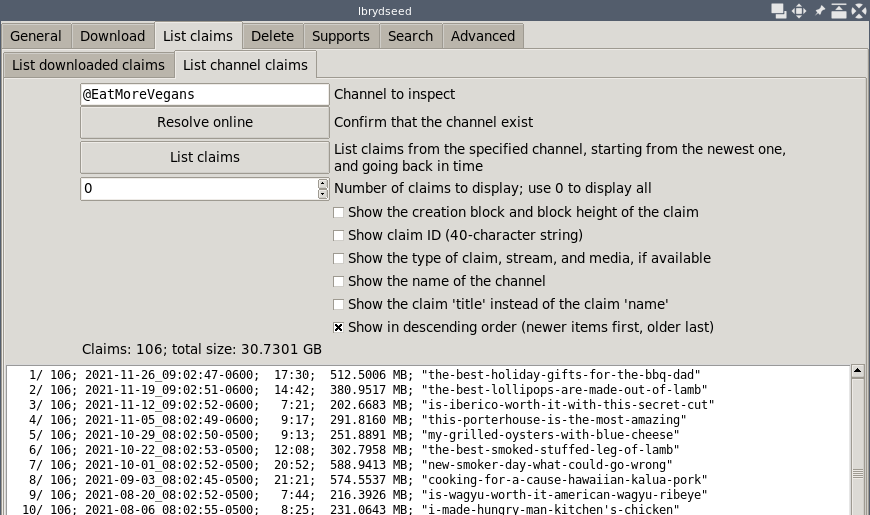
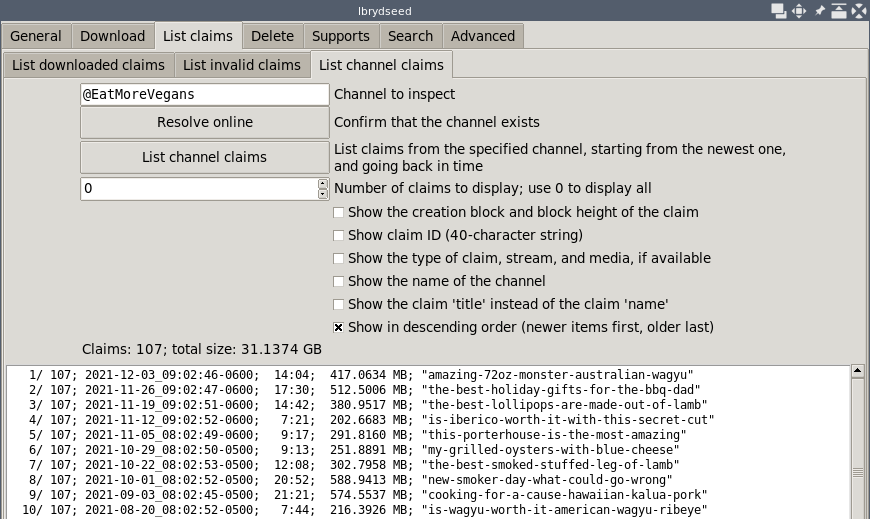
README.md: update images for listing claims
New images for `ListPage` (regular downloaded claims)
and `ListChPage` (only claims from a channel).

New image for the new page, `ListInvalidPage` (downloaded claims
that are now invalid).

diff --git a/lbseed/pages_base.py b/lbseed/pages_base.py
@@ -220,7 +220,7 @@ class ListPage:
     def setup_grid_top_list(self, parent, start=0):
         blocks.setup_button_gen(parent,
                                 width=self.b_width,
-                                b_text="List claims",
+                                b_text="List downloaded claims",
                                 b_command=self.list_claims,
                                 l_text="List all locally downloaded claims",
                                 start=start)
@@ -272,7 +272,7 @@ class ListInvalidPage:
     def setup_grid_top_list_inv(self, parent, start=0):
         blocks.setup_button_gen(parent,
                                 width=self.b_width,
-                                b_text="List claims",
+                                b_text="List invalid claims",
                                 b_command=self.list_inv_claims,
                                 l_text=("List all locally downloaded claims "
                                         "that have become 'invalid'.\n"
@@ -355,7 +355,7 @@ class ListChPage:
 
         blocks.setup_button_gen(parent,
                                 width=self.b_width,
-                                b_text="List claims",
+                                b_text="List channel claims",
                                 b_command=self.list_ch_claims,
                                 l_text=("List claims from the specified "
                                         "channel, "

diff --git a/README.md b/README.md
@@ -187,29 +187,34 @@ python dseed.py
 Enter the name of the channels, and a number of claims to download for each,
 then press `"Download claims"`.
 
-![lbryseed download_channel](./img/g_lbrydseed_download_channel.png)
+![lbryseed_download_channel](./img/g_lbrydseed_download_channel.png)
 
 Enter the name or claim ID of various claims,
 and then press `"Download claims"`.
 
-![lbryseed download_single](./img/g_lbrydseed_download_single.png)
+![lbryseed_download_single](./img/g_lbrydseed_download_single.png)
 
-Press `"List claims"` to display all claims downloaded to the system.
+Press `"List download claims"` to display all claims downloaded to the system.
 
-![lbryseed list_claims](./img/g_lbrydseed_list_claims.png)
+![lbryseed_list_claims](./img/g_lbrydseed_list_claims.png)
 
-Press `"List claims"` to display all claims from a single channel.
+Press `"List invalid claims"` to display all invalid claims,
+previously downloaded but no longer available online.
 
-![lbryseed list_claims](./img/g_lbrydseed_list_ch_claims.png)
+![lbryseed_list_invalid](./img/g_lbrydseed_list_invalid.png)
+
+Press `"List channel claims"` to display all claims from a single channel.
+
+![lbryseed_list_claims](./img/g_lbrydseed_list_ch_claims.png)
 
 Enter the name or claim ID of various claims, then press `"Delete claims"`.
 
-![lbryseed delete_single](./img/g_lbrydseed_delete_single.png)
+![lbryseed_delete_single](./img/g_lbrydseed_delete_single.png)
 
 Enter the name of the channels, and a number of claims to keep for each,
 then press `"Clean up claims"`.
 
-![lbryseed cleanup_channel](./img/g_lbrydseed_cleanup_channel.png)
+![lbryseed_cleanup_channel](./img/g_lbrydseed_cleanup_channel.png)
 
 Press `"List supports"` to show claims that we support with LBC.
 
